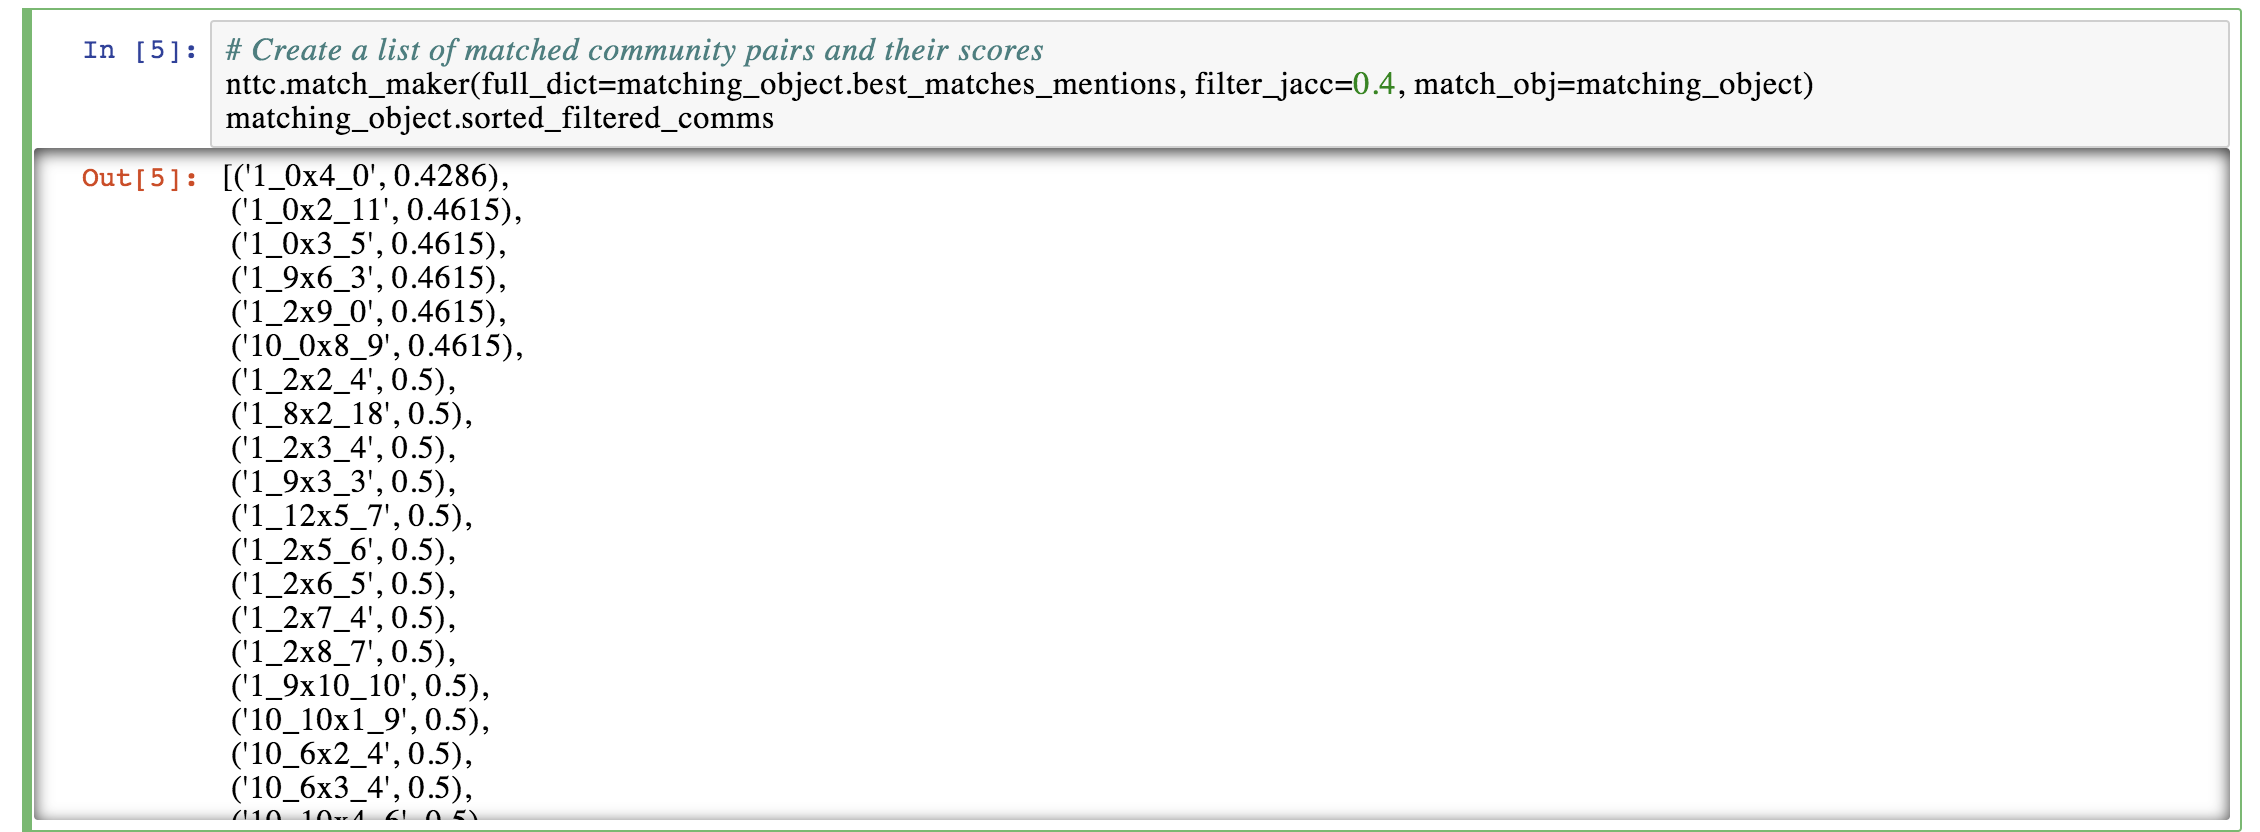
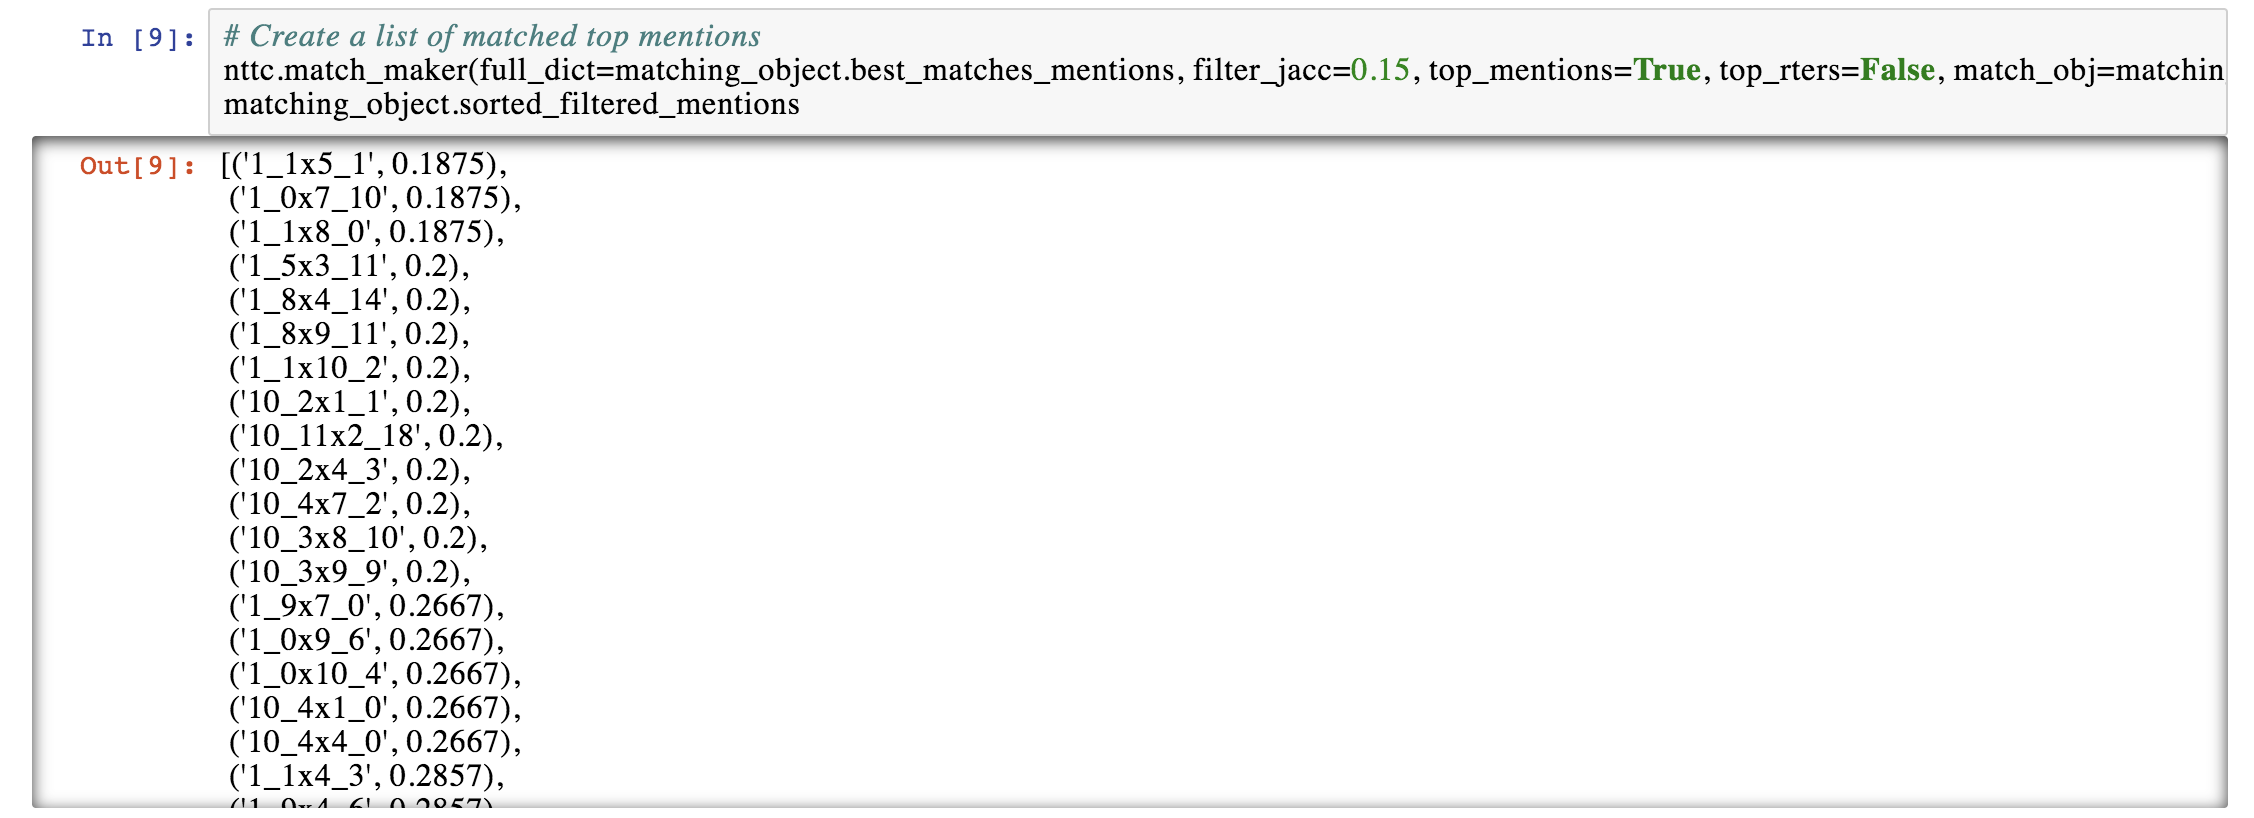
Updated module to conduct analysis for both top mentions and top rters

Changed region(s): [[0.0, 0.0, 0.9938, 1.0]]

diff --git a/nttc/nttc.py b/nttc/nttc.py
@@ -85,10 +85,13 @@ class communitiesObject:
 
 class communityGroupsObject:
     '''an object class with attributes for various matched-community data and metadata'''
-    def __init__(self, best_matches_mentions=None, sorted_filtered_comms=None, groups=None):
+    def __init__(self, best_matches_mentions=None, best_matches_rters=None, sorted_filtered_mentions=None, sorted_filtered_rters=None, groups_mentions=None, groups_rters=None):
         self.best_matches_mentions = best_matches_mentions
-        self.sorted_filtered_comms = sorted_filtered_comms
-        self.groups = groups
+        self.best_matches_rters = best_matches_rters
+        self.sorted_filtered_mentions = sorted_filtered_mentions
+        self.sorted_filtered_rters = sorted_filtered_rters
+        self.groups_mentions = groups_mentions
+        self.groups_rters = groups_rters
 
 '''
     Initialize communityGroupsObject
@@ -371,19 +374,34 @@ def matching_dict_processor(**kwargs):
         if index > 0 and (period_check in full_dict):
             if (kwargs['df'].values[index-1][1] == key_check) and (kwargs['df'].values[index-1][0] == period_check) and (key_check in full_dict[period_check]):
                 # Update to full_dict[period_check][key_check]
-                full_dict[period_check][key_check].append(kwargs['df'].values[index][2])
+                if kwargs['top_mentions'] == True:
+                    full_dict[period_check][key_check].append(kwargs['df'].iloc[index]['top_mentions'])
+                elif kwargs['top_rters'] == True:
+                    full_dict[period_check][key_check].append(kwargs['df'].iloc[index]['top_rters'])
             elif  (kwargs['df'].values[index-1][1] == key_check) and (key_check not in full_dict[period_check]):
                 # Create new key-value and update to full_dict
-                full_dict[period_check].update( { key_check: [kwargs['df'].values[index][2]] } )
+                if kwargs['top_mentions'] == True:
+                    full_dict[period_check].update( { key_check: [kwargs['df'].iloc[index]['top_mentions']] } )
+                elif kwargs['top_rters'] == True:
+                    full_dict[period_check].update( { key_check: [kwargs['df'].iloc[index]['top_rters']] } )
         elif index > 0 and (period_check not in full_dict):
-            full_dict.update( {period_check: { key_check: [kwargs['df'].values[index][2]] } } )
+            if kwargs['top_mentions'] == True:
+                full_dict.update( {period_check: { key_check: [kwargs['df'].iloc[index]['top_mentions']] } } )
+            elif kwargs['top_rters'] == True:
+                full_dict.update( {period_check: { key_check: [kwargs['df'].iloc[index]['top_rters']] } } )
         elif index == 0:
-            full_dict.update( {period_check: { key_check: [kwargs['df'].values[index][2]] } } )
+            if kwargs['top_mentions'] == True:
+                full_dict.update( {period_check: { key_check: [kwargs['df'].iloc[index]['top_mentions']] } } )
+            elif kwargs['top_rters'] == True:
+                full_dict.update( {period_check: { key_check: [kwargs['df'].iloc[index]['top_rters']] } } )
 
     if kwargs['match_obj'] is None:
         return full_dict
     elif kwargs['match_obj'] is not None:
-        kwargs['match_obj'].best_matches_mentions = full_dict
+        if kwargs['top_mentions'] == True:
+            kwargs['match_obj'].best_matches_mentions = full_dict
+        elif kwargs['top_rters'] == True:
+            kwargs['match_obj'].best_matches_rters = full_dict
         return kwargs['match_obj']
 
 '''
@@ -424,8 +442,12 @@ def match_maker(**kwargs):
     if kwargs['match_obj'] is None:
         return sorted_filtered_comm_scores
     elif kwargs['match_obj'] is not None:
-        kwargs['match_obj'].sorted_filtered_comms = sorted_filtered_comm_scores
-        return kwargs['match_obj']
+        if kwargs['top_mentions'] is True:
+            kwargs['match_obj'].sorted_filtered_mentions = sorted_filtered_comm_scores
+            return kwargs['match_obj']
+        elif kwargs['top_rters'] is True:
+            kwargs['match_obj'].sorted_filtered_rters = sorted_filtered_comm_scores
+            return kwargs['match_obj']
 
 '''
     Plot the community comparisons as a bar chart
@@ -564,17 +586,33 @@ def community_grouper(**kwargs):
     # These 2 patterns find the parts of the keys
     regex1 = r"(\b\w{1,2}_[^x]{1,2})"
     regex2 = r"(([^x]{1,5}\b))"
-    for fcs in kwargs['match_obj'].sorted_filtered_comms:
-        # Parse comms into distinct strings for comparison
-        match1 = re.findall(regex1, fcs[0])
-        match2 = re.findall(regex2, fcs[0])
-        communities_across_periods.append( (match1[0], match2[0][0]) )
-        # If not values exist in groups, update
-        if not groups:
-            groups.update( {str(i): { 'matches': [ match1[0], match2[0][0] ] }} )
-        # Else send matches to group_reader()
-        else:
-            group_reader(groups, match1[0], match2[0][0])
-    fg = final_grouper(all_groups=groups)
-    kwargs['match_obj'].groups = fg
-    return fg
+    if kwargs['top_mentions'] is True:
+        for fcs in kwargs['match_obj'].sorted_filtered_mentions:
+            # Parse comms into distinct strings for comparison
+            match1 = re.findall(regex1, fcs[0])
+            match2 = re.findall(regex2, fcs[0])
+            communities_across_periods.append( (match1[0], match2[0][0]) )
+            # If not values exist in groups, update
+            if not groups:
+                groups.update( {str(i): { 'matches': [ match1[0], match2[0][0] ] }} )
+            # Else send matches to group_reader()
+            else:
+                group_reader(groups, match1[0], match2[0][0])
+        fg = final_grouper(all_groups=groups)
+        kwargs['match_obj'].groups_mentions = fg
+        return kwargs['match_obj']
+    elif kwargs['top_rters'] is True:
+        for fcs in kwargs['match_obj'].sorted_filtered_rters:
+            # Parse comms into distinct strings for comparison
+            match1 = re.findall(regex1, fcs[0])
+            match2 = re.findall(regex2, fcs[0])
+            communities_across_periods.append( (match1[0], match2[0][0]) )
+            # If not values exist in groups, update
+            if not groups:
+                groups.update( {str(i): { 'matches': [ match1[0], match2[0][0] ] }} )
+            # Else send matches to group_reader()
+            else:
+                group_reader(groups, match1[0], match2[0][0])
+        fg = final_grouper(all_groups=groups)
+        kwargs['match_obj'].groups_rters = fg
+        return kwargs['match_obj']

diff --git a/setup.py b/setup.py
@@ -5,7 +5,7 @@ with open("README.md", "r") as fh:
 setup(
   name = 'nttc',
   packages = ['nttc'], # this must be the same as the name above
-  version = '0.2.8',
+  version = '0.2.9',
   description = 'A set of functions that process and create topic models from a sample of community-detected Twitter networks\' tweets.',
   author = 'Chris A. Lindgren',
   author_email = 'chris.a.lindgren@gmail.com',

diff --git a/README.md b/README.md
@@ -43,31 +43,37 @@ It functions only with Python 3.x and is not backwards-compatible (although one 
 
 ```nttc``` initializes and uses the following objects:
 
-* ```communitiesObject```: Object with properties that help you name them more easily:
-    - tweet_slice: dict of a sample community's tweets
-    - split_docs: split version of sampled tweets
-    - id2word: dict version of split_docs
-    - texts: Listified version of sample
-    - corpus: List of sample terms with frequency counts
-    - readme: If desired, printout readable version
-    - model: Stores the LDA topic model object
-    - perplexity: Computed perplexity score of topic model
-    - coherence: Computed coherence score of topic model
-    - top_rts: Sample of top 10 Rters and RTs for the community
-    - top_mentions: Sample of top 10 people mentioned
-    - full_hub: Combined version of top_rts and top_mentions as a DataFrame
+* ```communitiesObject```: Object with properties that generate topic model and also help you name them more easily. Object properties are as follows:
+    - ```.tweet_slice```: dict of a sample community's tweets
+    - ```.split_docs```: split version of sampled tweets
+    - ```.id2word```: dict version of split_docs
+    - ```.texts```: Listified version of sample
+    - ```.corpus```: List of sample terms with frequency counts
+    - ```.readme```: If desired, printout readable version
+    - ```.model```: Stores the LDA topic model object
+    - ```.perplexity```: Computed perplexity score of topic model
+    - ```.coherence```: Computed coherence score of topic model
+    - ```.top_rts```: Sample of top 10 Rters and RTs for the community
+    - ```.top_mentions```: Sample of top 10 people mentioned
+    - ```.full_hub```: Combined version of top_rts and top_mentions as a DataFrame
     
-* ```communityGroupsObject```: Object with properties that analyze community likeness scores and then groups alike communities across periods.
-    - best_matches_nodes: Dictionary of per Period with per Period_Comm hub values as lists
-    - sorted_filtered_comms: List of tuples, where each tuple has 1) the tested pair of communities between 2 periods, and 2) their JACC score. Example: ```('1_0x4_0', 0.4286)```
-    - groups: A list of sets, where each set are alike communities across periods:<pre>[{'1_8', '2_18'},
+* ```communityGroupsObject```: Object with properties that analyze community likeness scores and then groups alike communities across periods. Object properties as follows:
+    - ```.best_matches_mentions```: Dictionary of per Period with per Period hub top_mentions (users) values as lists
+    - ```.best_matches_rters```: Dictionary of per Period with per Period hub top_rters (users) values as lists
+    - ```.sorted_filtered_comms```: List of tuples, where each tuple has 1) the tested pair of communities between 2 periods, and 2) their JACC score. Example: ```('1_0x4_0', 0.4286)```
+    - ```.groups_mentions```: A list of sets, where each set are alike mention groups across periods:<pre>[{'1_8', '2_18'},
  {'3_7', '4_2'},
  {'7_11', '8_0'},
  {'10_11', '4_14', '5_14', '6_7', '9_11'},
  {'1_0', '2_11', '3_5', '4_0', '5_5', '6_12'},
  {'10_10', '1_9', '2_3', '3_3', '4_6', '5_2', '6_3', '7_0', '8_2', '9_4'},
  {'10_6', '1_2', '2_4', '3_4', '4_13', '5_6', '6_5', '7_4', '8_7', '9_0'},
- {'10_0', '1_12', '2_6', '3_0', '4_5', '5_7', '6_6', '7_3', '8_9', '9_5'}]
+ {'10_0', '1_12', '2_6', '3_0', '4_5', '5_7', '6_6', '7_3', '8_9', '9_5'}]</pre>
+    - ```.groups_rters```: A list of sets, where each set are alike mention groups across periods:<pre>[{'1_8', '2_18', '5_14'},
+ {'10_20', '5_18'},
+ {'5_2', '6_3', '7_0'},
+ {'5_1', '7_1'},
+ {'10_12', '2_3', '3_13', '6_8', '7_5', '8_4', '9_1'}]</pre>
 
 ## Functions
 
@@ -141,6 +147,7 @@ It functions only with Python 3.x and is not backwards-compatible (although one 
  {'10_6', '1_2', '2_4', '3_4', '4_13', '5_6', '6_5', '7_4', '8_7', '9_0'},
  {'10_0', '1_12', '2_6', '3_0', '4_5', '5_7', '6_6', '7_3', '8_9', '9_5'}]
     </pre>
+  - **NOTE**: *This algorithm isn't perfect. It needs some refinement, since it may output some overlaps. However, it certainly filters down the potential persistent communities with either top_mentions or top_rters across periods, so it saves you some manual comparative analysis labor.* 
 * ```group_reader()```: Takes the period_community pairs and appends to dict if intersections occur. However, the returned dict requires furter analysis and processing, due to unknown order and content from the sorted and filtered communities, which is why they are then sent to the final_grouper by community_grouper, after completion here.
     - Args: Accepts the initial group dict, which is cross-referenced by the pair of period_community values extracted via a regex expression.
     - Returns: A dict of oversaturated comparisons, which are sent to final_grouper() for final analysis, reduction, and completion.
